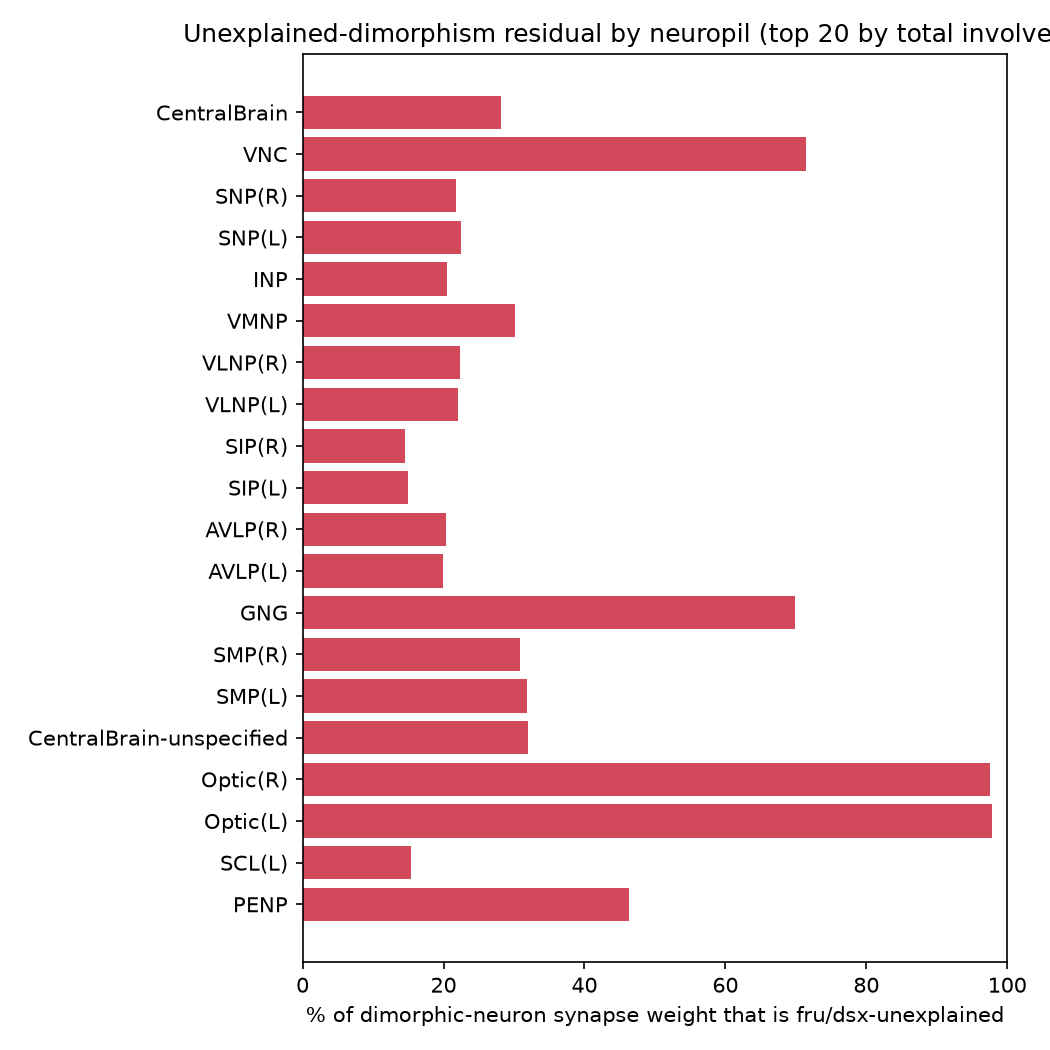
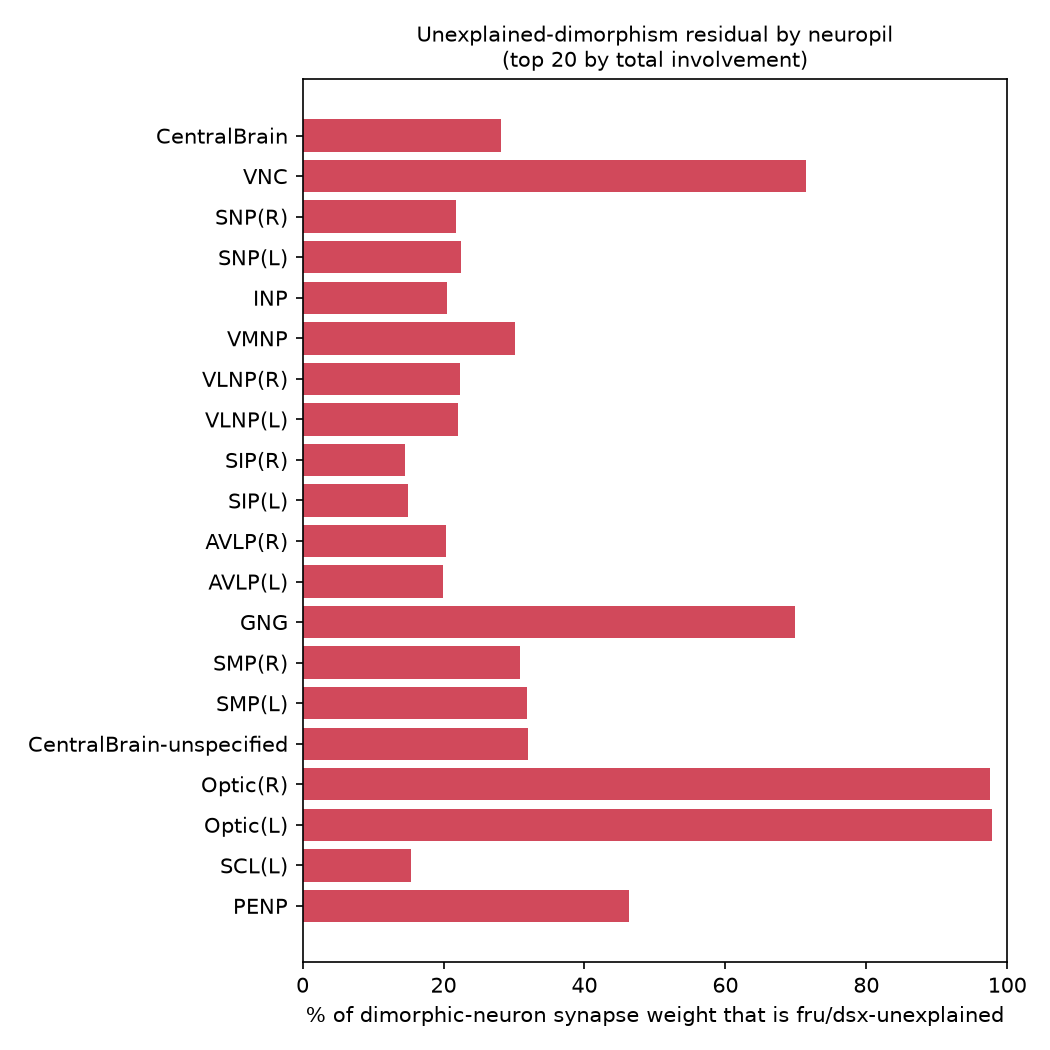
Audit: close six documentation and figure gaps left by recent work
Full sweep. Everything numeric was already correct -- all 18 headline
numbers match regenerated ground truth, no stale claims, no TODOs, no
secrets, all links and anchors resolve, 105 tests, ruff clean, 11/11
script runs exit 0, 4MB repo with no data committed. What the sweep did
find was drift between what the code now does and what the docs say it
does.

1. paper.md's Methods section never introduced the annotation
   cross-check or the permutation null, while Results had grown a whole
   section (4.6) depending on the first and a headline number from the
   second. Section 3 still described "four phases" full stop. A reader
   hitting 4.6 would have met a method the paper never defined.

2. paper.md's reproduce block omitted run_annotation_crosscheck.py
   entirely, so following the documented sequence reproduced everything
   EXCEPT the section that answers the project's central question. Both
   invocations are now listed, curated and codex.

3. inspect_codex_download.py was undocumented anywhere. It is the tool
   that finds which Codex export carries the fru/dsx labels, which is
   precisely the step a reader repeating this would get stuck on.

4. README's Data section named none of the required MaleCNS files and
   did not mention that codex_labels.csv.gz must be fetched by hand
   (browser login, so no script can do it). Now lists what is automatic,
   what is manual, and which dataset selector setting matters.
[…]

Changed region(s): [[0.0305, 0.0914, 0.9448, 0.8838], [0.1829, 0.0, 1.0, 0.0914]]

diff --git a/src/fruresidual/viz/atlas.py b/src/fruresidual/viz/atlas.py
@@ -43,7 +43,13 @@ def plot_roi_bar(roi_summary: pd.DataFrame, out_path: Path, top_n: int = 20) -> 
     ax.barh(df.index, df["pct_residual"], color=_SIG_COLOR)
     ax.set_xlabel("% of dimorphic-neuron synapse weight that is fru/dsx-unexplained")
     ax.set_xlim(0, 100)
-    ax.set_title(f"Unexplained-dimorphism residual by neuropil (top {top_n} by total involvement)")
+    # Wrapped and down-sized: at figsize=7 wide this title overflows the
+    # axes and gets clipped mid-word, which is then baked into the
+    # summary panel that embeds this figure.
+    ax.set_title(
+        f"Unexplained-dimorphism residual by neuropil\n(top {top_n} by total involvement)",
+        fontsize=10,
+    )
     fig.tight_layout()
     out_path.parent.mkdir(parents=True, exist_ok=True)
     fig.savefig(out_path, dpi=150)

diff --git a/README.md b/README.md
@@ -12,6 +12,11 @@ README covers setup and reproduction; the plan behind the project is in
 
 ![Headline figure](reports/figures/summary_headline.png)
 
+*The figure shows the four data-driven phases. The fifth line of
+evidence below — the independent-annotation cross-check — has no figure
+of its own; it lives in
+[docs/annotation_crosscheck_results.md](docs/annotation_crosscheck_results.md).*
+
 ## Headline result
 
 Five independent lines of evidence, each gating the next:
@@ -55,7 +60,7 @@ data/                raw/ interim/ processed/ — gitignored, fetched via script
 docs/                paper.md (start here), project_plan.md, phaseN_results.md
 notebooks/           scratch space only — the real entry points are scripts/
 reports/figures/     small PNG deliverables per phase — tracked in git, unlike data/
-scripts/             run_phaseN.py, download_*.py, make_summary_figure.py
+scripts/             run_phaseN.py, download_*.py, run_annotation_crosscheck.py, …
 src/fruresidual/     the actual package — data clients, features, models, eval, viz
 tests/               pytest
 ```
@@ -135,9 +140,23 @@ aren't throttled). Get it with:
 ```
 python scripts/download_male_cns.py   # MaleCNS bulk files, no auth needed
 ```
-The FlyWire `flywire_annotations` table is fetched on first use by
-`fruresidual.data.flywire_client.load_flywire_annotations` (also cached
-into the same directory).
+That fetches the MaleCNS bulk files the pipeline needs:
+`body-annotations-male-cns-v1.0-minconf-0.5.feather` (per-neuron
+`dimorphism` and `fruDsx`) and `body-neurotransmitters-male-cns-v1.0.feather`.
+
+Fetched automatically on first use, into the same directory:
+
+- `flywire_annotations.feather` — by `flywire_client.load_flywire_annotations`
+- `banc_888_meta.feather` — by `banc_client.load_banc_meta` (Phase 4)
+
+**Fetched manually** (needs a browser login, so no script can do it):
+
+- `codex_labels.csv.gz` — FlyWire Codex → Download Data → Community
+  Labels (Raw), with the dataset selector on **FAFB v783**. Required
+  only for `run_annotation_crosscheck.py --source codex`. If you
+  download other Codex exports and aren't sure which carries the
+  fru/dsx annotations, `python scripts/inspect_codex_download.py` scans
+  them and tells you which file and column, ranked.
 
 ## Phase-by-phase reproduction log
 

diff --git a/docs/paper.md b/docs/paper.md
@@ -90,9 +90,11 @@ section (b); per-phase access details and caveats are in
 ## 3. Methods overview
 
 The pipeline is four phases, each gated by the previous one's result
-(`scripts/run_phase0.py` → `run_phase4.py`; `configs/config.yaml`
-controls the one genuine analysis parameter, the *fru*/*dsx*
-confidence-aggregation rule). Full statistical detail is in
+(`scripts/run_phase0.py` → `run_phase4.py`), plus a standalone
+annotation cross-check (`run_annotation_crosscheck.py`) that tests all
+of them against a second, independent *fru*/*dsx* source.
+`configs/config.yaml` controls the one genuine analysis parameter, the
+*fru*/*dsx* confidence-aggregation rule. Full statistical detail is in
 `docs/phaseN_results.md`; this section is the minimum needed to read
 Section 4.
 
@@ -127,6 +129,17 @@ Section 4.
   split, via recall, precision, and a Fisher's exact test on whether
   residual neurons are confirmed dimorphic at a different rate than
   explained neurons.
+- **Annotation cross-check (§4.6).** The residual re-tested against a
+  second *fru*/*dsx* annotation, with an explicit
+  `independence_diagnostic` that refuses the comparison if the second
+  source's labels turn out to be nested inside MaleCNS's — which is what
+  happened on the first attempt, and is why the result reported is the
+  second one.
+- **Empirical nulls.** Phase 3's cluster result additionally carries a
+  1,000-iteration label-permutation null (`label_permutation_null`),
+  holding the graph and its clustering fixed, because the parametric
+  p-value assumes an independence between clusters and labels that does
+  not hold here.
 
 ## 4. Results
 
@@ -452,6 +465,8 @@ python scripts/run_phase1.py
 python scripts/run_phase2_data.py && python scripts/run_phase2.py
 python scripts/run_phase3_data.py && python scripts/run_phase3.py
 python scripts/run_phase4.py
+python scripts/run_annotation_crosscheck.py                       # curated source (inconclusive by design)
+python scripts/run_annotation_crosscheck.py --source codex        --codex-file codex_labels.csv.gz                           # the §4.6 result
 python scripts/make_summary_figure.py
 python -m pytest && ruff check .
 ```

diff --git a/docs/outreach_drafts.md b/docs/outreach_drafts.md
@@ -1,14 +1,16 @@
 # Outreach drafts
 
 Two blockers in this project can only be cleared by someone outside it.
-Both drafts below are ready to send; fill in the bracketed bits.
+**Both have now been sent** — the drafts are kept below as the record of
+what was actually asked, so the replies can be read against them.
 
 Status:
 - **Janelia (E6): SENT 2026-09-19** to Dr. Stuart Berg (corresponding
   author, Berg et al. *Cell* 2026), from d.mohithakshay@gmail.com.
   Awaiting reply.
-- **BANC (E7): not sent.** Account details below are filled in and
-  verified against the live CAVE auth server — nothing left to look up.
+- **BANC (E7): SENT 2026-09-20** to Wei-Chung Allen Lee (Lee Lab,
+  Harvard), from d.mohithakshay@gmail.com, including CAVE user ID REDACTED
+  so the grant can be applied directly. Awaiting reply.
 
 Looking up your own CAVE identity again, if ever needed:
 `GET https://global.daf-apis.com/auth/api/v1/user/me` with
